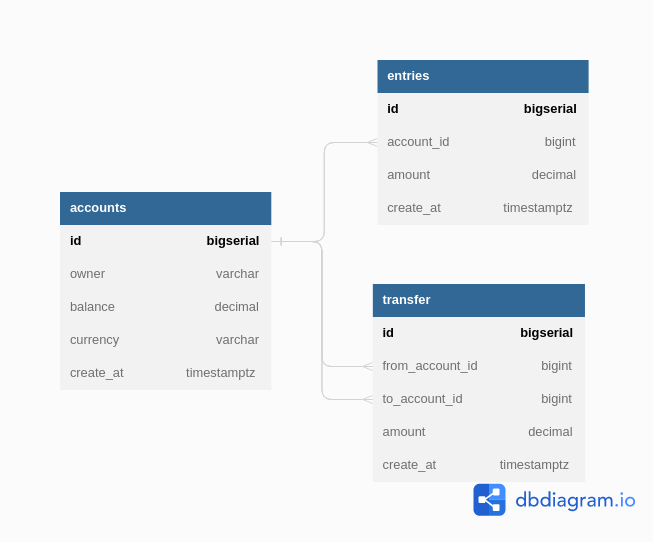
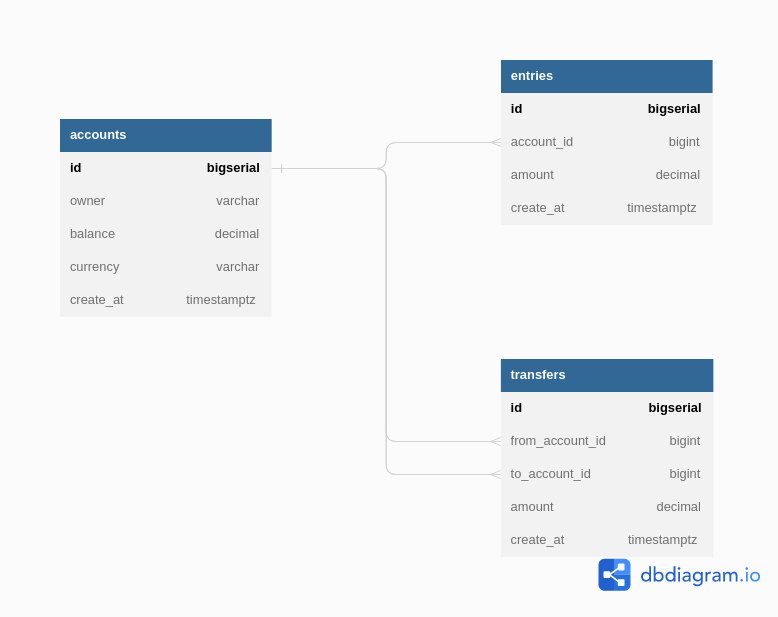
minor chage

diff --git a/README.md b/README.md
@@ -19,7 +19,7 @@ Table accounts as A {
 
 Table entries {
   id bigserial [pk]
-  account_id bigint [ref: > A.id]
+  account_id bigint [not null, ref: > A.id]
   amount decimal [not null, note:'can be negative or positive']
   create_at timestamptz [not null,default: `now()`]
   
@@ -28,10 +28,10 @@ Table entries {
   }
 }
 
-Table transfer {
+Table transfers {
   id bigserial [pk]
-  from_account_id bigint [ref: > A.id]
-  to_account_id bigint [ref: > A.id]
+  from_account_id bigint [not null, ref: > A.id]
+  to_account_id bigint [not null, ref: > A.id]
   amount decimal [not null,  note:'must be positive']
   create_at timestamptz [not null, default: `now()`]
   
